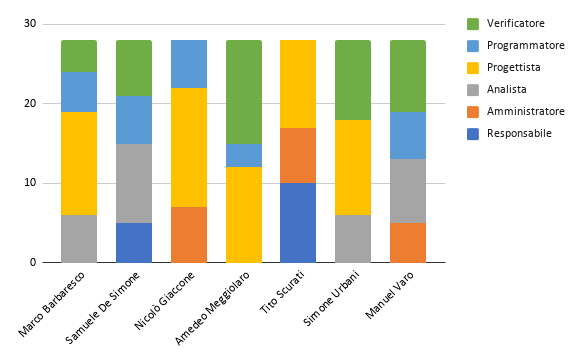
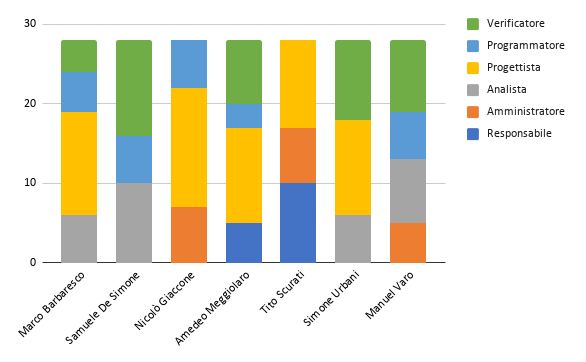
tabelle

diff --git a/RR/Documenti Esterni/Piano di Progetto/sezioni/preventivo.tex b/RR/Documenti Esterni/Piano di Progetto/sezioni/preventivo.tex
@@ -14,6 +14,28 @@ Per descrivere come il gruppo \emph{TechSWEave} utilizzerà le risorse a sua dis
     In questa fase la distribuzione oraria è la seguente:
     %fare tabella e istogramma 
     %---------------------
+
+    \begin{center}
+        \begin{table}[ht!]
+            \centering
+            \rowcolors{2}{logo!10}{logo!40}
+            \renewcommand{\arraystretch}{1.8}
+            \begin{tabular}{p{100px} p{20px} p{20px} p{20px} p{20px} p{20px} p{20px} p{50px} }
+                \rowcolor{logo!70} \textbf{Nominativo} & \textbf{Re} & \textbf{Am} & \textbf{An} & \textbf{Pt} & \textbf{Pr} & \textbf{Ve} & \textbf{Ore totali}\\
+                Marco Barbaresco & - & 10 & 10 & - & - & 15 & 35\\
+                Samuele De Simone & 8 & - & 17 & - & - & 10 & 35\\
+                Nicolò Giaccone & - & 7 & 21 & - & - & 7 & 35\\
+                Amedeo Meggiolaro & - & - & 18 & - & - & 17 & 35\\
+                Tito Scurati & - & 8 & 12 & - & - & 15 & 35\\
+                Simone Urbani & 6 & 10 & 8 & - & - & 11 & 35\\
+                Manuel Varo & 7 & - & 12 & - & - & 16 & 35\\
+                Ore totati di ruolo & 21 & 35 & 98 & - & - & 91 & 245\\
+            \end{tabular}
+        \end{table}
+    \end{center}
+
+    \pagebreak
+
     \begin{figure}[!h]
             \caption{Istogramma orari suddivisione dei ruoli}
             \vspace{5px}
@@ -24,7 +46,24 @@ Per descrivere come il gruppo \emph{TechSWEave} utilizzerà le risorse a sua dis
     In questa fase i costi da affrontare per ogni ruolo sono i seguenti:
     %fare tabella e istogramma 
     %---------------------
-
+    \begin{center}
+        \begin{table}[ht!]
+            \centering
+            \rowcolors{2}{logo!10}{logo!40}
+            \renewcommand{\arraystretch}{1.8}
+            \begin{tabular}{p{75px} p{20px} p{30px} }
+                \rowcolor{logo!70} \textbf{Ruolo} & \textbf{Ore} & \textbf{Costo}\\
+                Responsabile & 21 & 630 \\
+                Amministratore & 35 & 700 \\
+                Analista & 98 & 2450 \\
+                Progettista & - & - \\
+                Programmatore & - & - \\
+                Verificatore & 91 & 1365  \\
+                Totale & 245 & 5145  \\
+            \end{tabular}
+        \end{table}
+    \end{center}
+    \pagebreak
     \begin{figure}[!h]
         \caption{aerogramma ore per ruolo}
         \vspace{5px}
@@ -32,29 +71,69 @@ Per descrivere come il gruppo \emph{TechSWEave} utilizzerà le risorse a sua dis
         \centering
     \end{figure}
 
-    \pagebreak
+    
 \subsection{Fase di Consolidamento dei requisiti}
     \subsubsection{Prospetto orario}
     In questa fase la distribuzione oraria è la seguente:
     %fare tabella e istogramma 
     %---------------------
-    \begin{figure}[!h]
-        \caption{Istogramma orari suddivisione dei ruoli}
-        \vspace{5px}
-        \includegraphics[scale=0.6]{../../../Images/Diagrammi/Istogrammi/ore requisiti.png}
-        \centering
-    \end{figure}
-\subsubsection{Prospetto economico}
+
+        \begin{center}
+            \begin{table}[ht!]
+                \centering
+                \rowcolors{2}{logo!10}{logo!40}
+                \renewcommand{\arraystretch}{1.8}
+                \begin{tabular}{p{100px} p{20px} p{20px} p{20px} p{20px} p{20px} p{20px} p{50px} }
+                    \rowcolor{logo!70} \textbf{Nominativo} & \textbf{Re} & \textbf{Am} & \textbf{An} & \textbf{Pt} & \textbf{Pr} & \textbf{Ve} & \textbf{Ore totali}\\
+                    Marco Barbaresco & - & - & 2 & - & - & 4 & 6\\
+                    Samuele De Simone & 4 & - & - & - & - & 2 & 6\\
+                    Nicolò Giaccone & - & - & 6 & - & - & - & 6\\
+                    Amedeo Meggiolaro & - & - & - & - & - & 6 & 6\\
+                    Tito Scurati & - & - & 6 & - & - & - & 6\\
+                    Simone Urbani & - & 6 & - & - & - & - & 6\\
+                    Manuel Varo & - & - & 2 & - & - & 4 & 6\\
+                    Ore totati di ruolo & 4 & 6 & 16 & - & - & 16 & 42\\
+                \end{tabular}
+            \end{table}
+        \end{center}
+        \pagebreak
+
+        \begin{figure}[!h]
+            \caption{Istogramma orari suddivisione dei ruoli}
+            \vspace{5px}
+            \includegraphics[scale=0.6]{../../../Images/Diagrammi/Istogrammi/ore requisiti.png}
+            \centering
+        \end{figure}
+
+    \subsubsection{Prospetto economico}
 In questa fase i costi da affrontare per ogni ruolo sono i seguenti:
 %fare tabella e istogramma 
 %---------------------
+        \begin{center}
+            \begin{table}[ht!]
+                \centering
+                \rowcolors{2}{logo!10}{logo!40}
+                \renewcommand{\arraystretch}{1.8}
+                \begin{tabular}{p{75px} p{20px} p{30px}}
+                    \rowcolor{logo!70} \textbf{Ruolo} & \textbf{Ore} & \textbf{Costo}\\
+                    Responsabile & 4 & 120 \\
+                    Amministratore & 6 & 120 \\
+                    Analista & 16 & 400 \\
+                    Progettista & - & - \\
+                    Programmatore & - & - \\
+                    Verificatore & 16 & 240  \\
+                    Totale & 42 & 880 \\
+                \end{tabular}
+            \end{table}
+        \end{center}
+        \pagebreak
 
-\begin{figure}[!h]
-    \caption{aerogramma ore requisiti per ruolo}
-    \vspace{5px}
-    \includegraphics[scale=0.5]{../../../Images/Diagrammi/Diagramma a torta/ore requisiti.png}
-    \centering
-\end{figure}
+        \begin{figure}[!h]
+            \caption{aerogramma ore requisiti per ruolo}
+            \vspace{5px}
+            \includegraphics[scale=0.5]{../../../Images/Diagrammi/Diagramma a torta/ore requisiti.png}
+            \centering
+        \end{figure}
 
 
 
@@ -63,23 +142,61 @@ In questa fase i costi da affrontare per ogni ruolo sono i seguenti:
     In questa fase la distribuzione oraria è la seguente:
     %fare tabella e istogramma 
     %---------------------
-    \begin{figure}[!h]
-        \caption{Istogramma orari suddivisione dei ruoli}
-        \vspace{5px}
-        \includegraphics[scale=0.6]{../../../Images/Diagrammi/Istogrammi/ore architettura.png}
-        \centering
-    \end{figure}
-\subsubsection{Prospetto economico}
-In questa fase i costi da affrontare per ogni ruolo sono i seguenti:
-%fare tabella e istogramma 
-%---------------------
+        \begin{center}
+            \begin{table}[ht!]
+                \centering
+                \rowcolors{2}{logo!10}{logo!40}
+                \renewcommand{\arraystretch}{1.8}
+                \begin{tabular}{p{100px} p{20px} p{20px} p{20px} p{20px} p{20px} p{20px} p{50px} }
+                    \rowcolor{logo!70} \textbf{Nominativo} & \textbf{Re} & \textbf{Am} & \textbf{An} & \textbf{Pt} & \textbf{Pr} & \textbf{Ve} & \textbf{Ore totali}\\
+                    Marco Barbaresco & - & - & 6 & 13 & 5 & 4 & 28\\
+                    Samuele De Simone & - & - & 10 & - & 6 & 12 & 28\\
+                    Nicolò Giaccone & - & 7 & - & 15 & 6 & - & 28\\
+                    Amedeo Meggiolaro & 5 & - & - & 12 & 3 & 8 & 28\\
+                    Tito Scurati & 10 & 7 & - & 11 & - & - & 28\\
+                    Simone Urbani & - & - & 6 & 12 & - & 10 & 28\\
+                    Manuel Varo & - & 5 & 8 & - & 6 & 9 & 28\\
+                    Ore totati di ruolo & 15 & 19 & 30 & 63 & 26 & 43 & 196\\
+                \end{tabular}
+            \end{table}
+        \end{center}
+        \pagebreak
+        
+        \begin{figure}[!h]
+            \caption{Istogramma orari suddivisione dei ruoli}
+            \vspace{5px}
+            \includegraphics[scale=0.6]{../../../Images/Diagrammi/Istogrammi/ore architettura.png}
+            \centering
+        \end{figure}
+    \subsubsection{Prospetto economico}
+    In questa fase i costi da affrontare per ogni ruolo sono i seguenti:
+    %fare tabella e istogramma 
+    %---------------------
+        \begin{center}
+            \begin{table}[ht!]
+                \centering
+                \rowcolors{2}{logo!10}{logo!40}
+                \renewcommand{\arraystretch}{1.8}
+                \begin{tabular}{p{75px} p{20px} p{30px}}
+                    \rowcolor{logo!70} \textbf{Ruolo} & \textbf{Ore} & \textbf{Costo}\\
+                    Responsabile & 15 & 450 \\
+                    Amministratore & 19 & 380 \\
+                    Analista & 30 & 750 \\
+                    Progettista & 63 & 1368 \\
+                    Programmatore & 26 & 390 \\
+                    Verificatore & 43 & 645  \\
+                    Totale & 196 & 4001 \\
+                \end{tabular}
+            \end{table}
+        \end{center}
+        \pagebreak
 
-\begin{figure}[!h]
-    \caption{aerogramma ore requisiti per ruolo}
-    \vspace{5px}
-    \includegraphics[scale=0.5]{../../../Images/Diagrammi/Diagramma a torta/ore architettura.png}
-    \centering
-\end{figure}
+        \begin{figure}[!h]
+            \caption{aerogramma ore requisiti per ruolo}
+            \vspace{5px}
+            \includegraphics[scale=0.5]{../../../Images/Diagrammi/Diagramma a torta/ore architettura.png}
+            \centering
+        \end{figure}
 
 
 \subsection{Fase di dettaglio e codifica}
@@ -87,22 +204,61 @@ In questa fase i costi da affrontare per ogni ruolo sono i seguenti:
     In questa fase la distribuzione oraria è la seguente:
     %fare tabella e istogramma 
     %---------------------
-    \begin{figure}[!h]
-        \caption{Istogramma orari suddivisione dei ruoli}
-        \vspace{5px}
-        \includegraphics[scale=0.6]{../../../Images/Diagrammi/Istogrammi/ore codifica.png}
-        \centering
-    \end{figure}
-\subsubsection{Prospetto economico}
-In questa fase i costi da affrontare per ogni ruolo sono i seguenti:
-%fare tabella e istogramma 
-%---------------------
-\begin{figure}[!h]
-    \caption{aerogramma ore requisiti per ruolo}
-    \vspace{5px}
-    \includegraphics[scale=0.5]{../../../Images/Diagrammi/Diagramma a torta/ore codifica.png}
-    \centering
-\end{figure}  
+        \begin{center}
+            \begin{table}[ht!]
+                \centering
+                \rowcolors{2}{logo!10}{logo!40}
+                \renewcommand{\arraystretch}{1.8}
+                \begin{tabular}{p{100px} p{20px} p{20px} p{20px} p{20px} p{20px} p{20px} p{50px} }
+                    \rowcolor{logo!70} \textbf{Nominativo} & \textbf{Re} & \textbf{Am} & \textbf{An} & \textbf{Pt} & \textbf{Pr} & \textbf{Ve} & \textbf{Ore totali}\\
+                    Marco Barbaresco & 9 & - & - & 14 & 12 & 15 & 50\\
+                    Samuele De Simone & - & 8 & - & 18 & 13 & 11 & 50\\
+                    Nicolò Giaccone & 8 & - & - & 8 & 20 & 14 & 50\\
+                    Amedeo Meggiolaro & 6 & 5 & - & 9 & 12 & 18 & 50\\
+                    Tito Scurati & - & 9 & - & 14 & 18 & 9 & 50\\
+                    Simone Urbani & 8 & - & - & 14 & 16 & 12 & 50\\
+                    Manuel Varo & - & 12 & - & 13 & 9 & 16 & 50\\
+                    Ore totati di ruolo & 31 & 34 & 0 & 90 & 100 & 95 & 350\\
+                \end{tabular}
+            \end{table}
+        \end{center}
+        \pagebreak
+        
+        \begin{figure}[!h]
+            \caption{Istogramma orari suddivisione dei ruoli}
+            \vspace{5px}
+            \includegraphics[scale=0.6]{../../../Images/Diagrammi/Istogrammi/ore codifica.png}
+            \centering
+        \end{figure}
+    \subsubsection{Prospetto economico}
+    In questa fase i costi da affrontare per ogni ruolo sono i seguenti:
+    %fare tabella e istogramma 
+    %---------------------
+        \begin{center}
+            \begin{table}[ht!]
+                \centering
+                \rowcolors{2}{logo!10}{logo!40}
+                \renewcommand{\arraystretch}{1.8}
+                \begin{tabular}{p{75px} p{20px} p{30px}}
+                    \rowcolor{logo!70} \textbf{Ruolo} & \textbf{Ore} & \textbf{Costo}\\
+                    Responsabile & 31 & 930 \\
+                    Amministratore & 34 & 680 \\
+                    Analista & - & - \\
+                    Progettista & 90 & 1980 \\
+                    Programmatore & 100 & 1500 \\
+                    Verificatore & 95 & 1425  \\
+                    Totale & 350 & 6515 \\
+                \end{tabular}
+            \end{table}
+        \end{center}
+        \pagebreak
+            
+        \begin{figure}[!h]
+            \caption{aerogramma ore requisiti per ruolo}
+            \vspace{5px}
+            \includegraphics[scale=0.5]{../../../Images/Diagrammi/Diagramma a torta/ore codifica.png}
+            \centering
+        \end{figure}  
 
 
 
@@ -111,23 +267,62 @@ In questa fase i costi da affrontare per ogni ruolo sono i seguenti:
     In questa fase la distribuzione oraria è la seguente:
     %fare tabella e istogramma 
     %---------------------
-    \begin{figure}[!h]
-        \caption{Istogramma orari suddivisione dei ruoli}
-        \vspace{5px}
-        \includegraphics[scale=0.6]{../../../Images/Diagrammi/Istogrammi/ore validificazione.png}
-        \centering
-    \end{figure}
-\subsubsection{Prospetto economico}
-In questa fase i costi da affrontare per ogni ruolo sono i seguenti:
-%fare tabella e istogramma 
-%---------------------
+        \begin{center}
+            \begin{table}[ht!]
+                \centering
+                \rowcolors{2}{logo!10}{logo!40}
+                \renewcommand{\arraystretch}{1.8}
+                \begin{tabular}{p{100px} p{20px} p{20px} p{20px} p{20px} p{20px} p{20px} p{50px} }
+                    \rowcolor{logo!70} \textbf{Nominativo} & \textbf{Re} & \textbf{Am} & \textbf{An} & \textbf{Pt} & \textbf{Pr} & \textbf{Ve} & \textbf{Ore totali}\\
+                    Marco Barbaresco & - & 8 & - & 2 & - & 10 & 20\\
+                    Samuele De Simone & 4 & - & - & - & 7 & 9 & 20\\
+                    Nicolò Giaccone & - & 5 & - & 6 & - & 9 & 20\\
+                    Amedeo Meggiolaro & - & - & - & 12 & 8 & - & 20\\
+                    Tito Scurati & 6 & - & - & - & 12 & 2 & 20\\
+                    Simone Urbani & - & 6 & - & - & 10 & 4 & 20\\
+                    Manuel Varo & 10 & - & - & - & 4 & 6 & 20\\
+                    Ore totati di ruolo & 20 & 19 & 0 & 20 & 41 & 40 & 140\\
+                \end{tabular}
+            \end{table}
+        \end{center}
+        \pagebreak
 
-\begin{figure}[!h]
-    \caption{aerogramma ore requisiti per ruolo}
-    \vspace{5px}
-    \includegraphics[scale=0.5]{../../../Images/Diagrammi/Diagramma a torta/ore validificazione.png}
-    \centering
-\end{figure}  
+        \begin{figure}[!h]
+            \caption{Istogramma orari suddivisione dei ruoli}
+            \vspace{5px}
+            \includegraphics[scale=0.6]{../../../Images/Diagrammi/Istogrammi/ore validificazione.png}
+            \centering
+        \end{figure}
+    \subsubsection{Prospetto economico}
+    In questa fase i costi da affrontare per ogni ruolo sono i seguenti:
+    %fare tabella e istogramma 
+    %---------------------
+
+        \begin{center}
+            \begin{table}[ht!]
+                \centering
+                \rowcolors{2}{logo!10}{logo!40}
+                \renewcommand{\arraystretch}{1.8}
+                \begin{tabular}{p{75px} p{20px} p{30px}}
+                    \rowcolor{logo!70} \textbf{Ruolo} & \textbf{Ore} & \textbf{Costo}\\
+                    Responsabile & 20 & 600 \\
+                    Amministratore & 19 & 380 \\
+                    Analista & - & - \\
+                    Progettista & 20 & 440 \\
+                    Programmatore & 41 & 615 \\
+                    Verificatore & 40 & 600  \\
+                    Totale & 140 & 2635 \\
+                \end{tabular}
+            \end{table}
+        \end{center}
+        \pagebreak
+
+        \begin{figure}[!h]
+            \caption{aerogramma ore requisiti per ruolo}
+            \vspace{5px}
+            \includegraphics[scale=0.5]{../../../Images/Diagrammi/Diagramma a torta/ore validificazione.png}
+            \centering
+        \end{figure}  
 
 
 \subsection{Riepologo}
